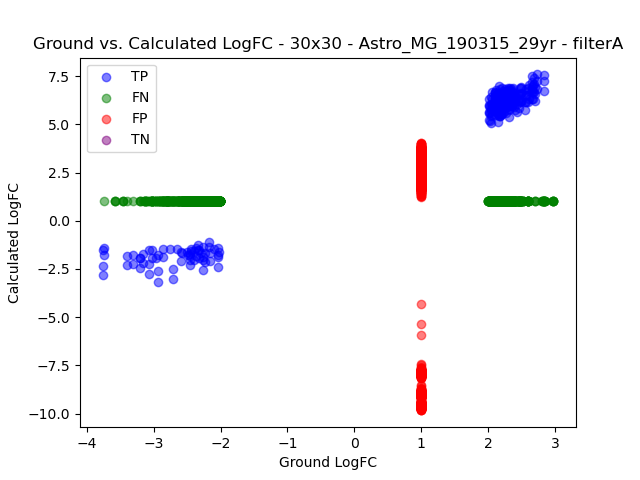
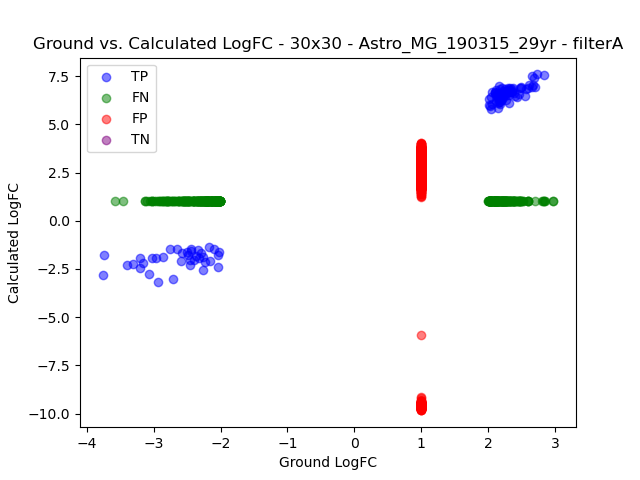
plots

diff --git a/experiments/2023-07-25/ground_vs_calculated_LFC.py b/experiments/2023-07-25/ground_vs_calculated_LFC.py
@@ -25,6 +25,8 @@ def create_plots(batch, filter_type):
     accuracy_df = pd.DataFrame(columns=["TP", "TN", "FP", "FN", "Experiment Size", "accuracy"])
 
     for e in experiment_sizes:
+        accuracy_df = pd.DataFrame(columns=["TP", "TN", "FP", "FN", "Experiment Size", "accuracy"])
+        result_df = pd.DataFrame(columns=["Error", "Experiment Size"])
         file_name = f"diffHiC_{batch}_{e}x{e}_{filter_type}_results.csv"
         file_path = os.path.join(result_dir, file_name)
         # Read the CSV file into a pandas DataFrame
@@ -67,6 +69,7 @@ def create_plots(batch, filter_type):
 
         # Plotting the data
         plt.figure()
+        plt.clf()
         plt.scatter(result_df[result_df["accuracy"]=="TP"]["LogFC_ground_truth"], result_df[result_df["accuracy"]=="TP"]["logFC"], alpha=0.5, c="blue")
         plt.scatter(result_df[result_df["accuracy"]=="FN"]["LogFC_ground_truth"], result_df[result_df["accuracy"]=="FN"]["logFC"], alpha=0.5, c="green")
         plt.scatter(result_df[result_df["accuracy"]=="FP"]["LogFC_ground_truth"], result_df[result_df["accuracy"]=="FP"]["logFC"], alpha=0.5, c="red")
